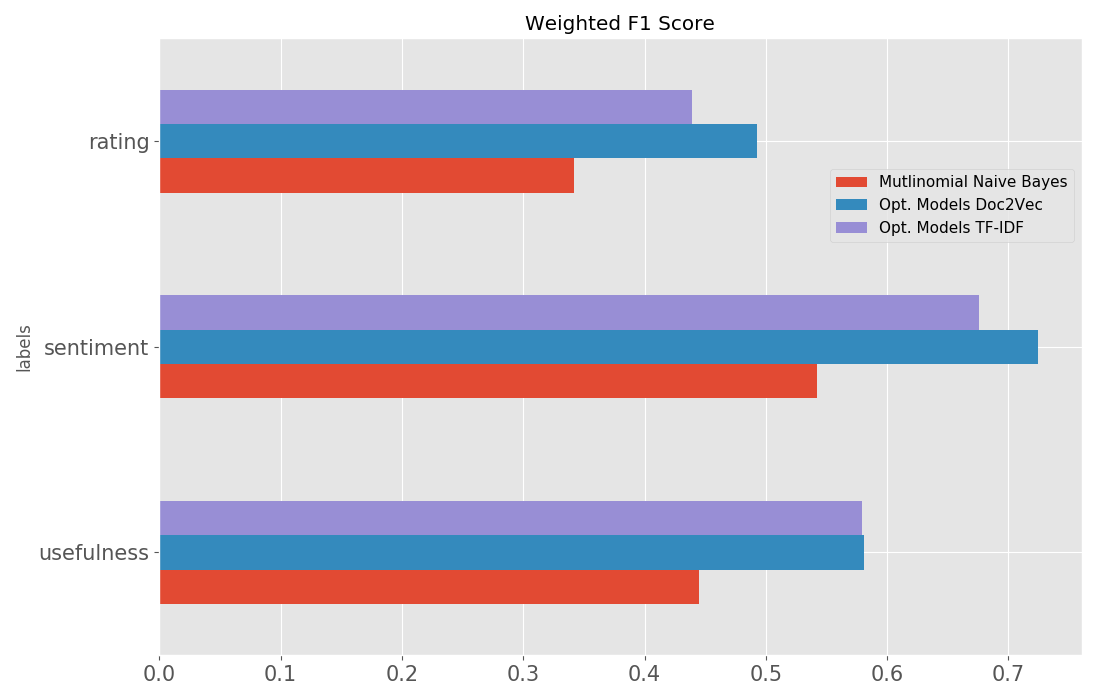
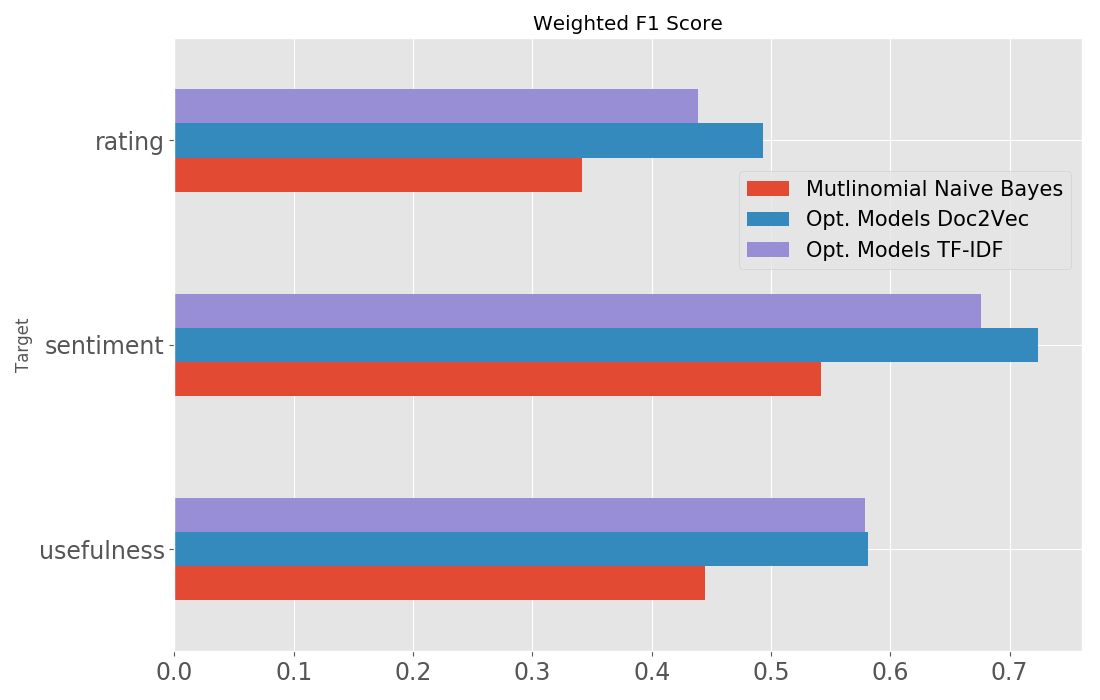
Update github final figure etc.

diff --git a/training_models.py b/training_models.py
@@ -16,6 +16,7 @@ def classifer(model, X, y, name):
     model.fit(X_train, y_train)
     preds = model.predict(X_test)
     print(name+'_accuracy:',model.score(X_test, y_test))
+    print(oob_score_)
     joblib.dump(model, name)
     return model, preds, y_test
 
@@ -24,7 +25,7 @@ if __name__ == '__main__':
     Data load for model training
     '''
     print('load df...')
-    df = pd.read_pickle("../pkl_data/rest_text_target_W_ids_df.pkl")
+    # df = pd.read_pickle("../pkl_data/rest_text_target_W_ids_df.pkl")
 
     '''
     Sampling for usefulness model
@@ -58,48 +59,48 @@ if __name__ == '__main__':
     '''
     Sampling for rating model
     '''
-    print('sampling...')
-    df.sample(frac=1)
-    df_1 = df[df['starsrev'] == 1] #random sample of user reviews
-    sample_1 = df_1.sample(n=50000)
-    df_2 = df[df['starsrev'] == 2]
-    sample_2 = df_2.sample(n=50000)
-    df_3 = df[df['starsrev'] == 3]
-    sample_3 = df_3.sample(n=50000)
-    df_5 = df[df['starsrev'] == 5]
-    sample_5 = df_5.sample(n=50000)
-    df_4 = df[df['starsrev'] == 4]
-    sample_4 = df_4.sample(n=50000)
-    rating_df = pd.concat([sample_1, sample_2, sample_3, sample_4, sample_5])
-    rating_df.to_pickle('models/rating_df.pkl')
+    # print('sampling...')
+    # df.sample(frac=1)
+    # df_1 = df[df['starsrev'] == 1] #random sample of user reviews
+    # sample_1 = df_1.sample(n=50000)
+    # df_2 = df[df['starsrev'] == 2]
+    # sample_2 = df_2.sample(n=50000)
+    # df_3 = df[df['starsrev'] == 3]
+    # sample_3 = df_3.sample(n=50000)
+    # df_5 = df[df['starsrev'] == 5]
+    # sample_5 = df_5.sample(n=50000)
+    # df_4 = df[df['starsrev'] == 4]
+    # sample_4 = df_4.sample(n=50000)
+    # rating_df = pd.concat([sample_1, sample_2, sample_3, sample_4, sample_5])
+    # rating_df.to_pickle('models/rating_df.pkl')
 
     '''
     NLP prep for model training
     '''
-    nlp = NlpTopicAnalysis(rating_df, textcol='text')
+    # nlp = NlpTopicAnalysis(rating_df, textcol='text')
     print('processing...')
-    nlp.process_text('../pkl_data', filename='rating_corpus')
+    # nlp.process_text('../pkl_data', filename='rating_corpus')
     # nlp = NlpTopicAnalysis()
     # nlp.load_corpus('../pkl_data', filename='usefulness_corpus')
     print('vectorizing...')
     # tfidf = nlp.vectorize(weighting='tfidf')
-    nlp.word2vec()
-    doc_vectors=nlp.doc_vectors
-    np.save('doc_vectors_rating', doc_vectors)
+    # nlp.word2vec()
+    # doc_vectors=nlp.doc_vectors
+    # np.save('doc_vectors_rating', doc_vectors)
     print('loaded doc vectors...')
-    doc_vectors = np.load('doc_vectors_rating.npy')
+    doc_vectors = np.load('doc_vectors_usefulness.npy')
     # with open('usefulness_vectorizer.pkl', 'wb') as v:
         # pickle.dump(nlp.vectorizer, v)
-    # usefulness_df = pd.read_pickle("models/usefulness_df.pkl")
+    usefulness_df = pd.read_pickle("../models/usefulness_df.pkl")
 
 
     '''
     training usefulness_model
     '''
-    # rf_n_useful = RandomForestClassifier(max_features='sqrt', n_estimators=1000)
-    # print('training model...')
-    # model, preds, y_test = classifer(rf_n_useful, doc_vectors, usefulness_df['usefulness'], name='usefulness_model_gbc_word2vec.pkl')
-    # print('f1_score:', f1_score(y_test, preds, average='weighted'))
+    rf_n_useful = RandomForestClassifier(max_features='sqrt', n_estimators=1000, max_depth=6, oob_score=True)
+    print('training model...')
+    model, preds, y_test = classifer(rf_n_useful, doc_vectors, usefulness_df['usefulness'], name='usefulness_model_gbc_word2vec.pkl')
+    print('f1_score:', f1_score(y_test, preds, average='weighted'))
     # print('training model...')
     # model_2, preds_2, y_test_2 = classifer(rf_n_useful, tfidf.toarray(), usefulness_df['usefulness'], name='usefulness_model_gbc_tfidf.pkl')
     # print('f1_score:', f1_score(y_test_2, preds_2, average='weighted'))
@@ -116,9 +117,9 @@ if __name__ == '__main__':
     '''
     rating model optimized
     '''
-    gd_rating = GradientBoostingClassifier(learning_rate=0.1, max_features='sqrt', n_estimators=500)
-    model5, preds5, y_test5 = classifer(gd_rating, doc_vectors, rating_df['starsrev'], name='rating_model_gbc_word2vec.pkl')
-    print('f1_score:', f1_score(y_test5, preds5, average='weighted'))
+    # gd_rating = GradientBoostingClassifier(learning_rate=0.1, max_features='sqrt', n_estimators=500)
+    # model5, preds5, y_test5 = classifer(gd_rating, doc_vectors, rating_df['starsrev'], name='rating_model_gbc_word2vec.pkl')
+    # print('f1_score:', f1_score(y_test5, preds5, average='weighted'))
     # model6, preds6, y_test6 = classifer(gd_rating, tfidf.toarray(), rating_df['starsrev'], name='rating_model_gbc_tfidf.pkl')
     # print('f1_score:', f1_score(y_test6, preds6, average='weighted'))
     # print('Done.')

diff --git a/creating_final_fig.py b/creating_final_fig.py
@@ -2,8 +2,8 @@ import pandas as pd
 import matplotlib.pyplot as plt
 
 plt.style.use('ggplot')
-df = pd.DataFrame({'Mutlinomial Naive Bayes':[0.445, 0.542, 0.342], 'Opt. Models TF-IDF':[0.579,0.676,0.439], 'Opt. Models Doc2Vec':[0.581,0.724,0.493], 'labels':['usefulness','sentiment','rating']})
-ax = df.plot.barh(title='Weighted F1 Score', x='labels', style=['fivethirtyeight'],figsize=(11,7), fontsize=15)
-plt.legend(bbox_to_anchor=(1,.8), fontsize=11)
+df = pd.DataFrame({'Mutlinomial Naive Bayes':[0.445, 0.542, 0.342], 'Opt. Models TF-IDF':[0.579,0.676,0.439], 'Opt. Models Doc2Vec':[0.581,0.724,0.493], 'Target':['usefulness','sentiment','rating']})
+ax = df.plot.barh(title='Weighted F1 Score', x='Target', style=['fivethirtyeight'],figsize=(11,7), fontsize=17)
+plt.legend(bbox_to_anchor=(1,.8), fontsize=15)
 plt.tight_layout()
 plt.savefig('/Users/gmgtex/Desktop/f1_score_plt_cv.png')

diff --git a/latent_topic_analysis.py b/latent_topic_analysis.py
@@ -245,7 +245,7 @@ class NlpTopicAnalysis(object):
                                 self.vectorizer.feature_names, \
                                 topics=-1,  \
                                 n_terms=n_terms, \
-                                highlight_topics=highlight)
+                                highlight_topics=highlight,col_labels=['Topic 1','Topic 2','Topic 3','Topic 4','Topic 5','Topic 6','Topic 7','Topic 8','Topic 9'])
         plt.tight_layout()
         print('plotting...')
         if save:
@@ -325,7 +325,7 @@ if __name__ == '__main__':
     print(nlp.corpus)
     nlp.vectorize()
     nlp.topic_analysis(n_topics=9, model_type='lda', n_terms=25, n_highlighted_topics=5, plot=True, save='termite_plot_4JNXUYY8wbaaDmk3BPzlWw_lda')
-    nlp.lda_vis()
+    # nlp.lda_vis()
     print('Done.')
 
     ''' Getting restaurants text and labels'''

diff --git a/method.md b/method.md
@@ -1,0 +1,152 @@
+# Method
+
+## Dependencies
+* textacy
+  * conda install -c conda-forge textacy
+* SpaCy
+  * conda install -c conda-forge spacy
+  * python -m spacy.en.download all
+* pyLDAvis
+  * pip install pyldavis
+* seq2seq
+  * git clone https://github.com/google/seq2seq.git
+  * pip install -e .
+* tensorflow
+  * pip install tensorflow-gpu or tensorflow
+  * sudo apt-get install cuda
+
+NlpTopicAnalysis.vectorize()
+Upon experimentation of many different min_df and max_df, it appears that a min_df of 10% and a max_df of 95% provides the best TF representation of Yelp reviews
+
+NlpTopicAnalysis.topic_analysis()
+The number of topics can very depending on the business and number of reviews a business has (the more reviews, the more possible topics).
+
+
+usefulness
+(GradientBoostingClassifier(criterion='friedman_mse', init=None,
+                 learning_rate=0.1, loss='deviance', max_depth=3,
+                 max_features='sqrt', max_leaf_nodes=None,
+                 min_impurity_decrease=0.0, min_impurity_split=None,
+                 min_samples_leaf=1, min_samples_split=2,
+                 min_weight_fraction_leaf=0.0, n_estimators=500,
+                 presort='auto', random_state=None, subsample=1.0, verbose=0,
+                 warm_start=False),
+   {'learning_rate': 0.1, 'max_features': 'sqrt', 'n_estimators': 500},
+   0.61293333333333333),
+
+   target
+   ((SVC(C=10, cache_size=200, class_weight=None, coef0=0.0,
+     decision_function_shape='ovr', degree=3, gamma='auto', kernel='linear',
+     max_iter=-1, probability=False, random_state=None, shrinking=True,
+     tol=0.001, verbose=False),
+   {'C': 10, 'kernel': 'linear', 'shrinking': True},
+   0.28620000000000001),
+
+   sentiment
+   ((SVC(C=10, cache_size=200, class_weight=None, coef0=0.0,
+     decision_function_shape='ovr', degree=3, gamma='auto', kernel='linear',
+     max_iter=-1, probability=False, random_state=None, shrinking=True,
+     tol=0.001, verbose=False),
+   {'C': 10, 'kernel': 'linear', 'shrinking': True},
+   0.73260000000000003),
+
+
+  rating
+  ((SVC(C=1, cache_size=200, class_weight=None, coef0=0.0,
+     decision_function_shape='ovr', degree=3, gamma='auto', kernel='linear',
+     max_iter=-1, probability=False, random_state=None, shrinking=True,
+     tol=0.001, verbose=False),
+   {'C': 1, 'kernel': 'linear', 'shrinking': True},
+   0.48039999999999999)
+
+
+   price
+   ((RandomForestClassifier(bootstrap=True, class_weight=None, criterion='gini',
+              max_depth=None, max_features='sqrt', max_leaf_nodes=None,
+              min_impurity_decrease=0.0, min_impurity_split=None,
+              min_samples_leaf=1, min_samples_split=2,
+              min_weight_fraction_leaf=0.0, n_estimators=1000, n_jobs=1,
+              oob_score=False, random_state=None, verbose=0,
+              warm_start=False),
+  {'max_features': 'sqrt', 'n_estimators': 1000},
+  0.58733333333333337),
+
+
+AttentionSeq2Seq:
+  attention.class: seq2seq.decoders.attention.AttentionLayerDot
+  attention.params: {num_units: 128}
+  bridge.class: seq2seq.models.bridges.ZeroBridge
+  bridge.params: {}
+  decoder.class: seq2seq.decoders.AttentionDecoder
+  decoder.params:
+    rnn_cell:
+      cell_class: GRUCell
+      cell_params: {num_units: 128}
+      dropout_input_keep_prob: 0.8
+      dropout_output_keep_prob: 1.0
+      num_layers: 1
+  embedding.dim: 128
+  embedding.init_scale: 0.04
+  embedding.share: false
+  encoder.class: seq2seq.encoders.BidirectionalRNNEncoder
+  encoder.params:
+    rnn_cell:
+      cell_class: GRUCell
+      cell_params: {num_units: 128}
+      dropout_input_keep_prob: 0.8
+      dropout_output_keep_prob: 1.0
+      num_layers: 1
+  inference.beam_search.beam_width: 0
+  inference.beam_search.choose_successors_fn: choose_top_k
+  inference.beam_search.length_penalty_weight: 0.0
+  optimizer.clip_embed_gradients: 0.1
+  optimizer.clip_gradients: 5.0
+  optimizer.learning_rate: 0.0001
+  optimizer.lr_decay_rate: 0.99
+  optimizer.lr_decay_steps: 100
+  optimizer.lr_decay_type: ''
+  optimizer.lr_min_learning_rate: 1.0e-12
+  optimizer.lr_staircase: false
+  optimizer.lr_start_decay_at: 0
+  optimizer.lr_stop_decay_at: 2147483647
+  optimizer.name: Adam
+  optimizer.params: {epsilon: 8.0e-07}
+  optimizer.sync_replicas: 0
+  optimizer.sync_replicas_to_aggregate: 0
+  source.max_seq_len: 50
+  source.reverse: false
+  target.max_seq_len: 50
+  vocab_source: /Users/gmgtex/Desktop/Galvanize/Immersive/capstone/seq2seq/text/vocab_train_text.txt
+  vocab_target: /Users/gmgtex/Desktop/Galvanize/Immersive/capstone/seq2seq/text/vocab_train_label.txt
+
+
+  BidirectionalRNNEncoder:
+  init_scale: 0.04
+  rnn_cell:
+    cell_class: GRUCell
+    cell_params: {num_units: 128}
+    dropout_input_keep_prob: 0.8
+    dropout_output_keep_prob: 1.0
+    num_layers: 1
+    residual_combiner: add
+    residual_connections: false
+    residual_dense: false
+
+INFO:tensorflow:Creating AttentionLayerDot in mode=eval
+INFO:tensorflow:
+AttentionLayerDot: {num_units: 128}
+
+INFO:tensorflow:Creating AttentionDecoder in mode=eval
+INFO:tensorflow:
+AttentionDecoder:
+  init_scale: 0.04
+  max_decode_length: 100
+  rnn_cell:
+    cell_class: GRUCell
+    cell_params: {num_units: 128}
+    dropout_input_keep_prob: 0.8
+    dropout_output_keep_prob: 1.0
+    num_layers: 1
+    residual_combiner: add
+    residual_connections: false
+    residual_dense: false
